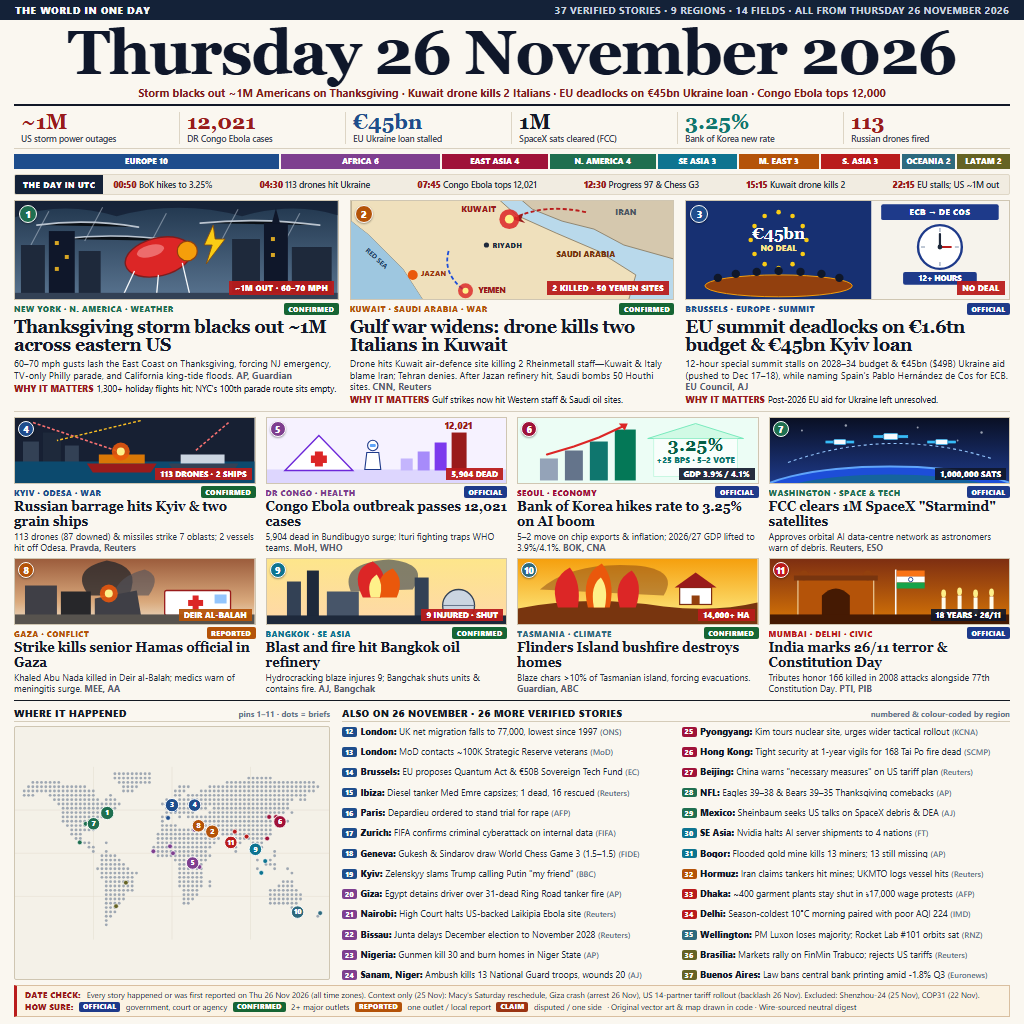
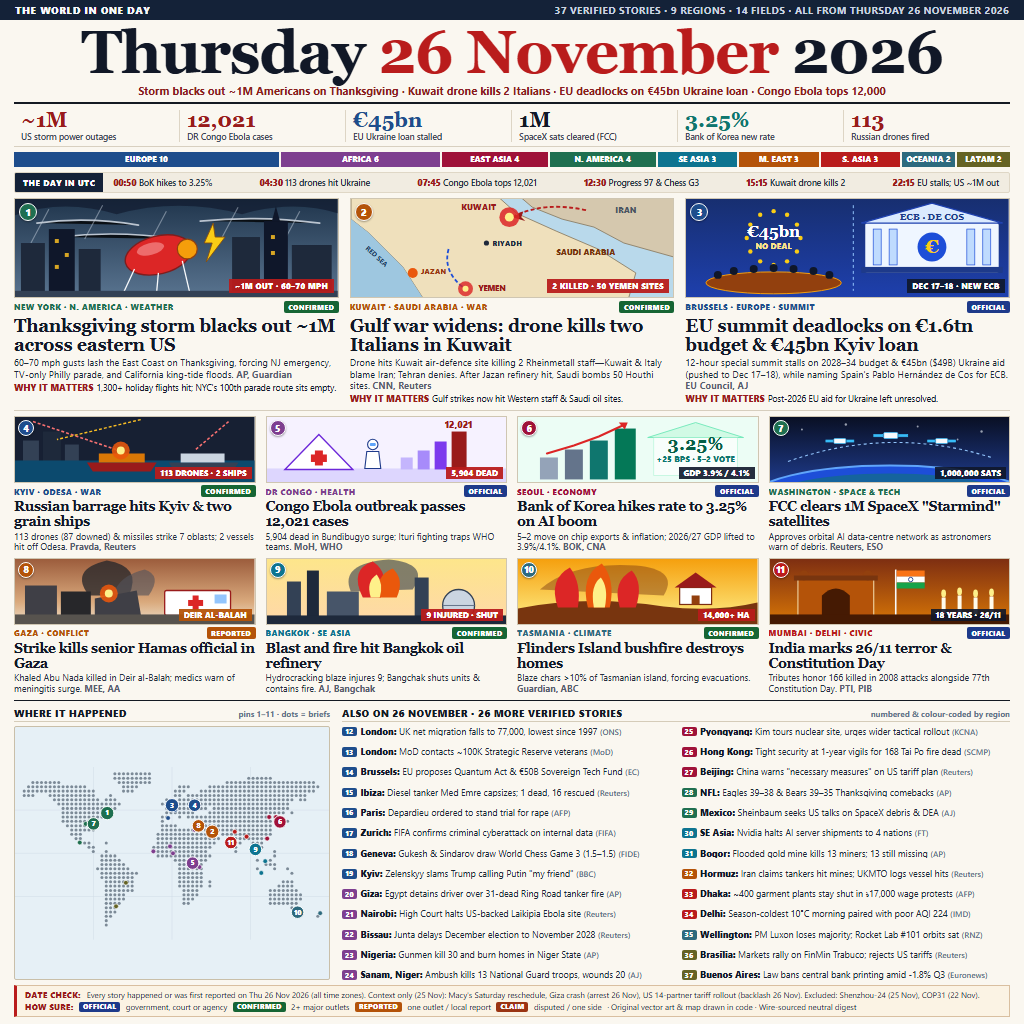
Synthesize broadsheet v7 combining 60px crimson-date masthead, blue-ocean dot-matrix atlas, full-navy EU/ECB hero, and 14-field 2x4 grid

diff --git a/poster.html b/poster.html
@@ -52,22 +52,23 @@
   /* FULL-WIDTH BROADSHEET MASTHEAD */
   .masthead {
     text-align: center;
-    border-bottom: 2.4px solid #111827;
+    border-bottom: 2.2px solid #141A23;
     padding-bottom: 4px;
   }
   .mast-date {
     font-family: Georgia, "Times New Roman", serif;
-    font-size: 62px;
+    font-size: 60px;
     font-weight: 900;
     line-height: 0.94;
-    letter-spacing: -1.4px;
-    color: #0F172A;
+    letter-spacing: -1.3px;
+    color: #111827;
   }
+  .mast-date .hl { color: #B91C1C; }
   .mast-deck {
     margin-top: 3px;
     font-size: 11px;
     font-weight: 700;
-    color: #7F1D1D;
+    color: #8B1E1E;
     white-space: nowrap;
   }
 
@@ -254,11 +255,11 @@
 
   .hero-h {
     font-family: Georgia, "Times New Roman", serif;
-    font-size: 17.6px;
+    font-size: 18.2px;
     font-weight: 900;
-    line-height: 1.07;
+    line-height: 1.06;
     color: #111827;
-    letter-spacing: -0.25px;
+    letter-spacing: -0.3px;
   }
   .hero-p {
     font-size: 9.35px;
@@ -295,11 +296,11 @@
   }
   .sec-h {
     font-family: Georgia, "Times New Roman", serif;
-    font-size: 13.4px;
+    font-size: 13.7px;
     font-weight: 900;
-    line-height: 1.08;
+    line-height: 1.07;
     color: #111827;
-    letter-spacing: -0.2px;
+    letter-spacing: -0.22px;
   }
   .sec-p {
     font-size: 9px;
@@ -344,8 +345,8 @@
     width: 100%;
     flex: 1;
     min-height: 175px;
-    border: 1px solid #CFC6B2;
-    background: #F4F1E8;
+    border: 1px solid #C9BFA9;
+    background: #E6F0F6;
     border-radius: 2px;
     overflow: hidden;
   }
@@ -426,7 +427,7 @@
 
     <!-- FULL-WIDTH SERIF MASTHEAD -->
     <header class="masthead">
-      <h1 class="mast-date">Thursday 26 November 2026</h1>
+      <h1 class="mast-date">Thursday <span class="hl">26 November</span> 2026</h1>
       <div class="mast-deck">Storm blacks out ~1M Americans on Thanksgiving · Kuwait drone kills 2 Italians · EU deadlocks on €45bn Ukraine loan · Congo Ebola tops 12,000</div>
     </header>
 
@@ -544,38 +545,35 @@
       <article class="hero">
         <div class="art-box">
           <svg viewBox="0 0 324 106" preserveAspectRatio="xMidYMid slice" xmlns="http://www.w3.org/2000/svg">
-            <rect width="324" height="106" fill="#F6F3EC"/>
-            <!-- Left half: EU blue summit chamber with 12-star ring + leader table -->
-            <rect x="0" y="0" width="186" height="106" fill="#173072"/>
-            <g transform="translate(93,43)" fill="#FACC15">
-              <circle cx="0" cy="-28" r="2.3"/><circle cx="14" cy="-24.2" r="2.3"/><circle cx="24.2" cy="-14" r="2.3"/>
-              <circle cx="28" cy="0" r="2.3"/><circle cx="24.2" cy="14" r="2.3"/><circle cx="14" cy="24.2" r="2.3"/>
-              <circle cx="0" cy="28" r="2.3"/><circle cx="-14" cy="24.2" r="2.3"/><circle cx="-24.2" cy="14" r="2.3"/>
-              <circle cx="-28" cy="0" r="2.3"/><circle cx="-24.2" cy="-14" r="2.3"/><circle cx="-14" cy="-24.2" r="2.3"/>
+            <defs><linearGradient id="h3" x1="0" y1="0" x2="0" y2="1"><stop offset="0%" stop-color="#172E6E"/><stop offset="100%" stop-color="#1E40AF"/></linearGradient></defs>
+            <rect width="324" height="106" fill="url(#h3)"/>
+            <g transform="translate(88,43)" fill="#FACC15">
+              <circle cx="0" cy="-27" r="2.2"/><circle cx="13.5" cy="-23.4" r="2.2"/><circle cx="23.4" cy="-13.5" r="2.2"/>
+              <circle cx="27" cy="0" r="2.2"/><circle cx="23.4" cy="13.5" r="2.2"/><circle cx="13.5" cy="23.4" r="2.2"/>
+              <circle cx="0" cy="27" r="2.2"/><circle cx="-13.5" cy="23.4" r="2.2"/><circle cx="-23.4" cy="13.5" r="2.2"/>
+              <circle cx="-27" cy="0" r="2.2"/><circle cx="-23.4" cy="-13.5" r="2.2"/><circle cx="-13.5" cy="-23.4" r="2.2"/>
             </g>
-            <text x="93" y="42" text-anchor="middle" font-family="Georgia,serif" font-size="16" font-weight="900" fill="#FFFFFF">€45bn</text>
-            <text x="93" y="54" text-anchor="middle" font-size="8.2" font-weight="900" fill="#FDE68A">NO DEAL</text>
-            <ellipse cx="93" cy="89" rx="74" ry="11" fill="#92400E" stroke="#F59E0B" stroke-width="1"/>
+            <text x="88" y="42" text-anchor="middle" font-family="Georgia,serif" font-size="16" font-weight="900" fill="#FFFFFF">€45bn</text>
+            <text x="88" y="54" text-anchor="middle" font-size="8.2" font-weight="900" fill="#FDE68A">NO DEAL</text>
+            <ellipse cx="88" cy="88" rx="68" ry="11" fill="#92400E" stroke="#F59E0B" stroke-width="1"/>
             <g fill="#0F172A">
-              <circle cx="32" cy="81" r="4.2"/><circle cx="50" cy="77" r="4.2"/><circle cx="71" cy="75" r="4.2"/>
-              <circle cx="93" cy="74" r="4.2"/><circle cx="115" cy="75" r="4.2"/><circle cx="136" cy="77" r="4.2"/><circle cx="154" cy="81" r="4.2"/>
+              <circle cx="32" cy="80" r="4"/><circle cx="48" cy="76" r="4"/><circle cx="68" cy="74" r="4"/>
+              <circle cx="88" cy="73" r="4"/><circle cx="108" cy="74" r="4"/><circle cx="128" cy="76" r="4"/><circle cx="144" cy="80" r="4"/>
             </g>
-            <!-- Right half: 12+ hour summit clock + ECB De Cos badge -->
-            <rect x="196" y="7" width="118" height="16" rx="2" fill="#1E3A8A"/>
-            <text x="255" y="18" text-anchor="middle" font-size="8.2" font-weight="900" fill="#FFFFFF" letter-spacing="0.4">ECB → DE COS</text>
-            <circle cx="255" cy="50" r="22" fill="#FFFFFF" stroke="#1E3A8A" stroke-width="2.4"/>
-            <g stroke="#94A3B8" stroke-width="1.2">
-              <line x1="255" y1="31" x2="255" y2="35"/><line x1="255" y1="65" x2="255" y2="69"/>
-              <line x1="236" y1="50" x2="240" y2="50"/><line x1="270" y1="50" x2="274" y2="50"/>
+            <line x1="168" y1="10" x2="168" y2="96" stroke="#93C5FD" stroke-width="1" stroke-dasharray="3,3"/>
+            <rect x="180" y="28" width="134" height="50" rx="2" fill="#EFF6FF"/>
+            <polygon points="176,28 247,8 318,28" fill="#DBEAFE" stroke="#1E40AF" stroke-width="1.2"/>
+            <text x="247" y="24.5" text-anchor="middle" font-family="Georgia,serif" font-size="9.2" font-weight="900" fill="#1E3A8A">ECB · DE COS</text>
+            <g fill="#BFDBFE" stroke="#1D4ED8" stroke-width="0.7">
+              <rect x="188" y="34" width="8" height="36"/><rect x="204" y="34" width="8" height="36"/>
+              <rect x="282" y="34" width="8" height="36"/><rect x="298" y="34" width="8" height="36"/>
             </g>
-            <line x1="255" y1="50" x2="255" y2="37" stroke="#1E293B" stroke-width="2.2" stroke-linecap="round"/>
-            <line x1="255" y1="50" x2="266" y2="50" stroke="#B91C1C" stroke-width="2" stroke-linecap="round"/>
-            <circle cx="255" cy="50" r="2.4" fill="#1E293B"/>
-            <rect x="218" y="75" width="74" height="13" rx="2" fill="#1E3A8A"/>
-            <text x="255" y="84.2" text-anchor="middle" font-size="7.6" font-weight="900" fill="#FFFFFF">12+ HOURS</text>
+            <circle cx="247" cy="52" r="14.5" fill="#1D4ED8"/>
+            <text x="247" y="58.5" text-anchor="middle" font-family="Georgia,serif" font-size="19" font-weight="900" fill="#FACC15">€</text>
+            <rect x="176" y="72" width="142" height="6" fill="#1E3A8A"/>
           </svg>
           <span class="num-badge r-eu">3</span>
-          <span class="art-pill red">NO DEAL</span>
+          <span class="art-pill">DEC 17–18 · NEW ECB</span>
         </div>
         <div class="meta-line"><span class="loc">BRUSSELS · EUROPE · SUMMIT</span><span class="ep ep-off">OFFICIAL</span></div>
         <h2 class="hero-h">EU summit deadlocks on €1.6tn budget &amp; €45bn Kyiv loan</h2>
@@ -808,13 +806,13 @@
         <div class="sec-title">WHERE IT HAPPENED <span>pins 1–11 · dots = briefs</span></div>
         <div class="map-box">
           <svg id="world-map" viewBox="0 0 320 176" preserveAspectRatio="xMidYMid meet" xmlns="http://www.w3.org/2000/svg">
-            <rect width="320" height="176" fill="#F4F1E8"/>
-            <g stroke="#E2DCCD" stroke-width="0.5">
+            <rect width="320" height="176" fill="#E6F0F6"/>
+            <g stroke="#CFDDE7" stroke-width="0.5">
               <line x1="0" y1="44" x2="320" y2="44"/><line x1="0" y1="88" x2="320" y2="88"/><line x1="0" y1="132" x2="320" y2="132"/>
               <line x1="80" y1="0" x2="80" y2="176"/><line x1="160" y1="0" x2="160" y2="176"/><line x1="240" y1="0" x2="240" y2="176"/>
             </g>
             <!-- Publication-grade dot-matrix continents populated deterministically on load -->
-            <g id="dot-land" fill="#9FA8B3"></g>
+            <g id="dot-land" fill="#7C8A97"></g>
             <!-- Briefs 12-37 location dots -->
             <g stroke="#FFFFFF" stroke-width="0.6">
               <circle cx="155" cy="38" r="2.4" fill="#1E4D8C"/><circle cx="157" cy="42" r="2.4" fill="#1E4D8C"/><circle cx="163" cy="44" r="2.4" fill="#1E4D8C"/><circle cx="156" cy="52" r="2.4" fill="#1E4D8C"/>
@@ -942,7 +940,7 @@
           const c = document.createElementNS(ns, 'circle');
           c.setAttribute('cx', x.toFixed(1));
           c.setAttribute('cy', y.toFixed(1));
-          c.setAttribute('r', '1.45');
+          c.setAttribute('r', '1.55');
           g.appendChild(c);
           break;
         }
